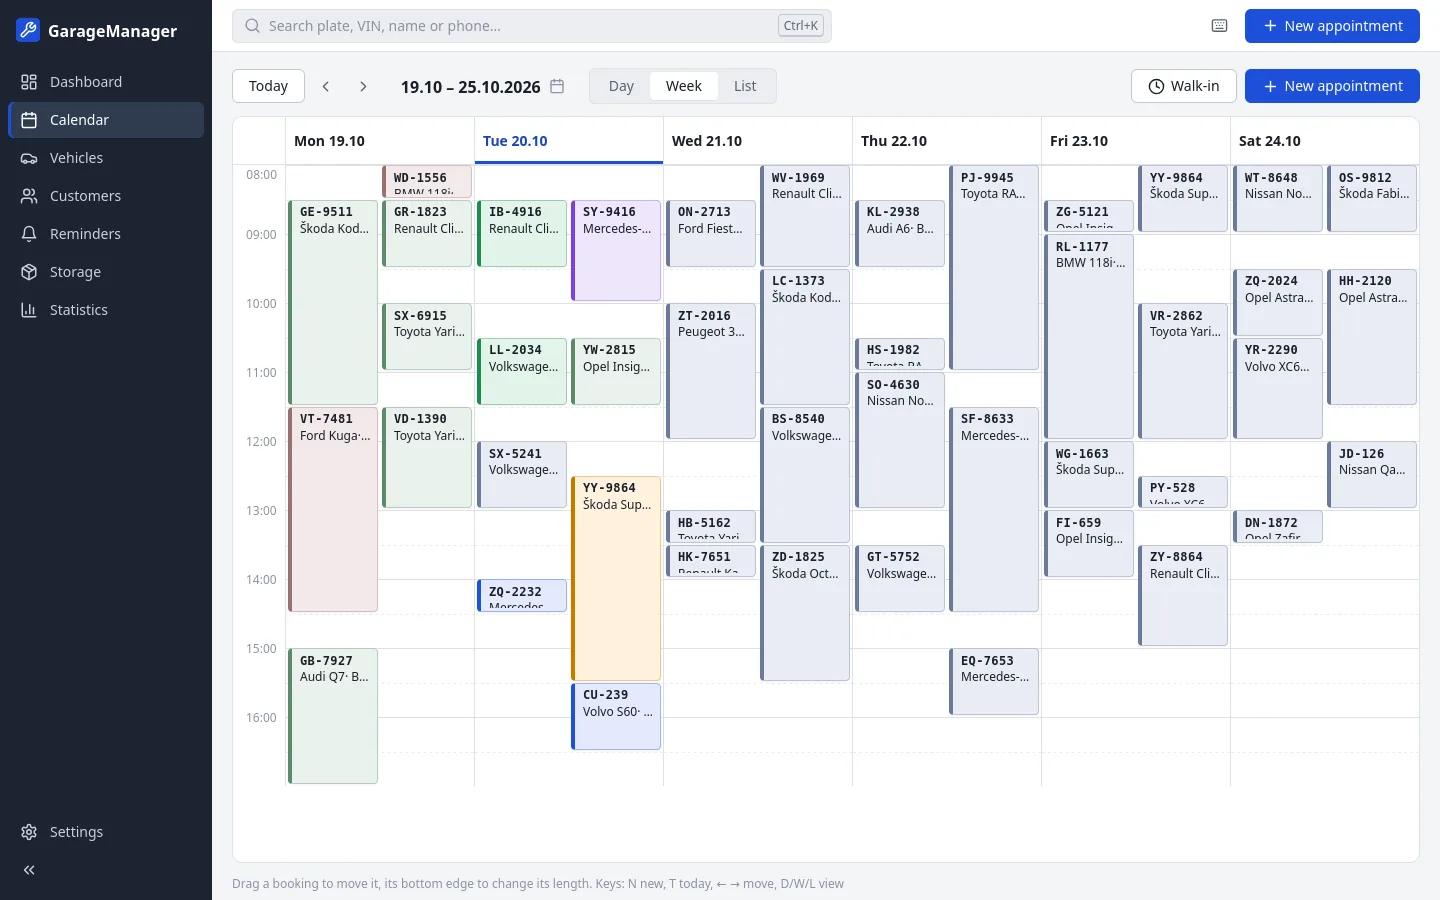
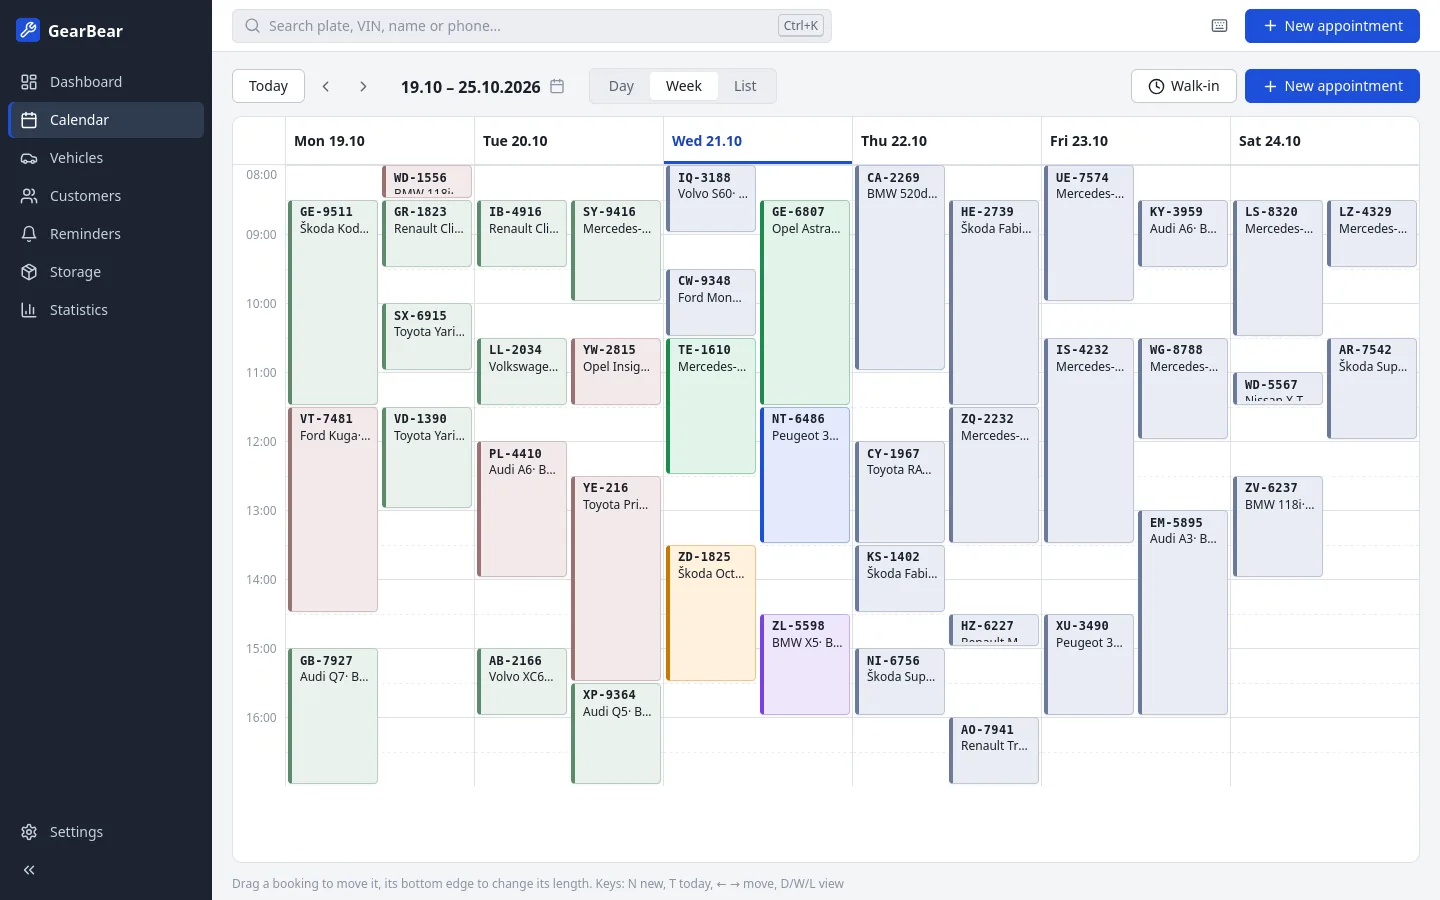
Rename to GearBear by ImpatientBeastStudios

diff --git a/index.html b/index.html
@@ -3,11 +3,12 @@
 <head>
 <meta charset="utf-8">
 <meta name="viewport" content="width=device-width, initial-scale=1">
-<title>GarageManager</title>
-<meta name="description" content="Free Windows app for car garages: appointments, vehicles, customers, job cards and service history. Works offline; your data stays on your PC.">
+<title>GearBear</title>
+<meta name="author" content="ImpatientBeastStudios">
+<meta name="description" content="GearBear: free Windows app for car garages: appointments, vehicles, customers, job cards and service history. Works offline; your data stays on your PC.">
 <link rel="icon" type="image/png" href="img/favicon-32.png">
 <link rel="apple-touch-icon" href="img/icon-192.png">
-<meta property="og:title" content="GarageManager">
+<meta property="og:title" content="GearBear">
 <meta property="og:description" content="Free Windows app for car garages: appointments, job cards and service history.">
 <meta property="og:image" content="https://teddybear1998.github.io/garagemanager/img/dashboard-en.webp">
 <script>
@@ -131,6 +132,7 @@
   .cta .alt a { color: #fff; }
   .facts { display: flex; flex-wrap: wrap; gap: 8px 22px; margin-top: 18px; font-size: .9rem; color: var(--text-on-dark); }
   .facts span::before { content: "✓"; margin-right: 6px; color: #7ee2a8; font-weight: 700; }
+  .formerly { margin-top: 14px; font-size: .88rem; color: var(--text-on-dark); opacity: .8; }
   .shot { position: relative; margin: 48px 0 calc(-1 * var(--overhang)); border-radius: var(--radius-lg); overflow: hidden; box-shadow: 0 24px 60px rgba(0, 0, 0, .35); border: 1px solid rgba(255, 255, 255, .08); }
 
   /* Features */
@@ -189,7 +191,7 @@
 
 <header>
   <div class="wrap bar">
-    <a class="brand" href="#top"><img src="img/icon-192.png" alt="">GarageManager</a>
+    <a class="brand" href="#top"><img src="img/icon-192.png" alt="">GearBear</a>
     <nav class="links">
       <a href="#features"><span lang="en">Features</span><span lang="lv">Iespējas</span></a>
       <a href="#screens"><span lang="en">Screenshots</span><span lang="lv">Ekrāni</span></a>
@@ -216,7 +218,7 @@
         <span lang="lv">Bezmaksas Windows programma autoservisiem. Pierakstiet darbus kalendārā, aizpildiet darba kartes, izdrukājiet tās klientam un atrodiet jebkuras automašīnas vēsturi sekundes laikā. Darbojas bez interneta, un dati paliek jūsu datorā.</span>
       </p>
       <div class="cta">
-        <a class="btn primary big" href="https://github.com/TeddyBear1998/garagemanager/releases/latest/download/GarageManager-Setup.exe">
+        <a class="btn primary big" href="https://github.com/TeddyBear1998/garagemanager/releases/latest/download/GearBear-Setup.exe">
           <svg viewBox="0 0 24 24" fill="none" stroke="currentColor" stroke-width="2" stroke-linecap="round" stroke-linejoin="round" aria-hidden="true"><path d="M21 15v4a2 2 0 0 1-2 2H5a2 2 0 0 1-2-2v-4"/><path d="m7 10 5 5 5-5"/><path d="M12 15V3"/></svg>
           <span lang="en">Download for Windows</span><span lang="lv">Lejupielādēt Windows</span>
         </a>
@@ -231,9 +233,10 @@
         <span lang="en">Works offline</span><span lang="lv">Darbojas bez interneta</span>
         <span lang="en">English and Latvian</span><span lang="lv">Latviešu un angļu valodā</span>
       </div>
+      <p class="formerly"><span lang="en">Formerly called GarageManager. Already using it? Click Download in the app's “new version” bar and run the installer: it replaces GarageManager with GearBear and keeps all your data.</span><span lang="lv">Agrāk saucās GarageManager. Jau lietojat? Spiediet Lejupielādēt programmas joslā “jauna versija” un palaidiet instalētāju: tas aizstās GarageManager ar GearBear un saglabās visus datus.</span></p>
       <div class="shot">
-        <img lang="en" src="img/dashboard-en.webp" width="1440" height="900" alt="GarageManager dashboard: today's appointments with their status and cars due for service">
-        <img lang="lv" src="img/dashboard-lv.webp" width="1440" height="900" alt="GarageManager sākuma ekrāns: šodienas pieraksti ar statusiem un automašīnas, kurām drīz jāveic serviss">
+        <img lang="en" src="img/dashboard-en.webp" width="1440" height="900" alt="GearBear dashboard: today's appointments with their status and cars due for service">
+        <img lang="lv" src="img/dashboard-lv.webp" width="1440" height="900" alt="GearBear sākuma ekrāns: šodienas pieraksti ar statusiem un automašīnas, kurām drīz jāveic serviss">
       </div>
     </div>
   </section>
@@ -324,11 +327,11 @@
         <p><span lang="en">For Windows 10 and 11 (64-bit). The installer takes about a minute.</span><span lang="lv">Windows 10 un 11 (64 bitu). Uzstādīšana aizņem apmēram minūti.</span></p>
       </div>
       <div class="dl-row">
-        <a class="btn primary" href="https://github.com/TeddyBear1998/garagemanager/releases/latest/download/GarageManager-Setup.exe">
+        <a class="btn primary" href="https://github.com/TeddyBear1998/garagemanager/releases/latest/download/GearBear-Setup.exe">
           <svg viewBox="0 0 24 24" fill="none" stroke="currentColor" stroke-width="2" stroke-linecap="round" stroke-linejoin="round" aria-hidden="true"><path d="M21 15v4a2 2 0 0 1-2 2H5a2 2 0 0 1-2-2v-4"/><path d="m7 10 5 5 5-5"/><path d="M12 15V3"/></svg>
           <span lang="en">Installer (recommended)</span><span lang="lv">Instalētājs (ieteicams)</span>
         </a>
-        <a class="btn secondary" href="https://github.com/TeddyBear1998/garagemanager/releases/latest/download/GarageManager.exe">
+        <a class="btn secondary" href="https://github.com/TeddyBear1998/garagemanager/releases/latest/download/GearBear.exe">
           <span lang="en">Portable exe, no install</span><span lang="lv">Pārnēsājamais exe bez uzstādīšanas</span>
         </a>
       </div>
@@ -336,7 +339,7 @@
         <ol class="steps">
           <li>
             <h3><span lang="en">Download the installer</span><span lang="lv">Lejupielādējiet instalētāju</span></h3>
-            <p><span lang="en">Click the button above. The file is called <b>GarageManager-Setup.exe</b>.</span><span lang="lv">Spiediet pogu augstāk. Faila nosaukums ir <b>GarageManager-Setup.exe</b>.</span></p>
+            <p><span lang="en">Click the button above. The file is called <b>GearBear-Setup.exe</b>.</span><span lang="lv">Spiediet pogu augstāk. Faila nosaukums ir <b>GearBear-Setup.exe</b>.</span></p>
           </li>
           <li>
             <h3><span lang="en">Allow it to run</span><span lang="lv">Atļaujiet to palaist</span></h3>
@@ -355,7 +358,7 @@
         <div>
           <div class="side">
             <h3><span lang="en">Updates</span><span lang="lv">Atjauninājumi</span></h3>
-            <p><span lang="en">When a new version is out, a bar appears at the top of the app. Click <b>Download</b>, close GarageManager and run the new installer. All your data stays.</span><span lang="lv">Kad iznāk jauna versija, programmas augšā parādās josla. Spiediet <b>Lejupielādēt</b>, aizveriet GarageManager un palaidiet jauno instalētāju. Visi dati saglabājas.</span></p>
+            <p><span lang="en">When a new version is out, a bar appears at the top of the app. Click <b>Download</b>, close GearBear and run the new installer. All your data stays.</span><span lang="lv">Kad iznāk jauna versija, programmas augšā parādās josla. Spiediet <b>Lejupielādēt</b>, aizveriet GearBear un palaidiet jauno instalētāju. Visi dati saglabājas.</span></p>
           </div>
           <div class="side">
             <h3><span lang="en">Already have customers in Excel?</span><span lang="lv">Klienti jau ir Excel tabulā?</span></h3>
@@ -377,10 +380,10 @@
   <section id="donate" class="alt-bg donate">
     <div class="wrap">
       <svg class="heart" viewBox="0 0 24 24" fill="none" stroke="currentColor" stroke-width="2" stroke-linecap="round" stroke-linejoin="round" aria-hidden="true"><path d="M19 14c1.49-1.46 3-3.21 3-5.5A5.5 5.5 0 0 0 16.5 3c-1.76 0-3 .5-4.5 2-1.5-1.5-2.74-2-4.5-2A5.5 5.5 0 0 0 2 8.5c0 2.3 1.5 4.05 3 5.5l7 7Z"/></svg>
-      <h2><span lang="en">Support GarageManager</span><span lang="lv">Atbalstiet GarageManager</span></h2>
+      <h2><span lang="en">Support GearBear</span><span lang="lv">Atbalstiet GearBear</span></h2>
       <p>
-        <span lang="en">GarageManager is free, with no ads and no subscriptions. If it saves your garage time, a small donation helps keep it going: new features, fixes and updates.</span>
-        <span lang="lv">GarageManager ir bez maksas, bez reklāmām un abonementiem. Ja tā ietaupa jūsu servisam laiku, neliels ziedojums palīdz to attīstīt: jaunas iespējas, labojumi un atjauninājumi.</span>
+        <span lang="en">GearBear is free, with no ads and no subscriptions. If it saves your garage time, a small donation helps keep it going: new features, fixes and updates.</span>
+        <span lang="lv">GearBear ir bez maksas, bez reklāmām un abonementiem. Ja tā ietaupa jūsu servisam laiku, neliels ziedojums palīdz to attīstīt: jaunas iespējas, labojumi un atjauninājumi.</span>
       </p>
       <!-- The link comes from DONATE_URL in the script at the end. The
            app's Donate button opens this section. -->
@@ -403,11 +406,11 @@
       </details>
       <details>
         <summary><span lang="en">Where is my data, and does anything get sent anywhere?</span><span lang="lv">Kur glabājas mani dati, un vai kaut kas tiek kaut kur sūtīts?</span></summary>
-        <p><span lang="en">Everything is in one database file in <b>%APPDATA%\GarageManager</b> on your PC, plus the backups. Settings → About shows the exact folder. The only internet use is a check for new versions: the app reads one small file from this website. No data about you, your garage or your customers is sent, and you can switch the check off in Settings.</span><span lang="lv">Viss glabājas vienā datubāzes failā mapē <b>%APPDATA%\GarageManager</b> jūsu datorā, kopā ar rezerves kopijām. Precīzā mape redzama sadaļā Iestatījumi → Par programmu. Internets tiek izmantots tikai jaunu versiju pārbaudei: programma nolasa vienu mazu failu no šīs mājaslapas. Netiek sūtīti nekādi dati par jums, jūsu servisu vai klientiem, un pārbaudi var izslēgt iestatījumos.</span></p>
+        <p><span lang="en">Everything is in one database file in <b>%APPDATA%\GearBear</b> on your PC, plus the backups. Settings → About shows the exact folder. The only internet use is a check for new versions: the app reads one small file from this website. No data about you, your garage or your customers is sent, and you can switch the check off in Settings.</span><span lang="lv">Viss glabājas vienā datubāzes failā mapē <b>%APPDATA%\GearBear</b> jūsu datorā, kopā ar rezerves kopijām. Precīzā mape redzama sadaļā Iestatījumi → Par programmu. Internets tiek izmantots tikai jaunu versiju pārbaudei: programma nolasa vienu mazu failu no šīs mājaslapas. Netiek sūtīti nekādi dati par jums, jūsu servisu vai klientiem, un pārbaudi var izslēgt iestatījumos.</span></p>
       </details>
       <details>
         <summary><span lang="en">Can several PCs share the same data?</span><span lang="lv">Vai vairāki datori var lietot tos pašus datus?</span></summary>
-        <p><span lang="en">Not yet. GarageManager runs on one PC, usually at the front desk. To move to a new PC, make a backup on the old one and restore it on the new one.</span><span lang="lv">Pagaidām ne. GarageManager darbojas vienā datorā, parasti reģistratūrā. Lai pārietu uz jaunu datoru, izveidojiet rezerves kopiju vecajā un atjaunojiet to jaunajā.</span></p>
+        <p><span lang="en">Not yet. GearBear runs on one PC, usually at the front desk. To move to a new PC, make a backup on the old one and restore it on the new one.</span><span lang="lv">Pagaidām ne. GearBear darbojas vienā datorā, parasti reģistratūrā. Lai pārietu uz jaunu datoru, izveidojiet rezerves kopiju vecajā un atjaunojiet to jaunajā.</span></p>
       </details>
       <details>
         <summary><span lang="en">Does it work on Mac or Linux?</span><span lang="lv">Vai tā darbojas uz Mac vai Linux?</span></summary>
@@ -415,11 +418,11 @@
       </details>
       <details>
         <summary><span lang="en">What is the portable exe for?</span><span lang="lv">Kam paredzēts pārnēsājamais exe?</span></summary>
-        <p><span lang="en">It's the same app without an installer. Put it in a folder such as C:\GarageManager and run it. To keep the data in that folder too, for example on a USB stick, create an empty file named <b>portable</b> next to the exe before the first start.</span><span lang="lv">Tā ir tā pati programma bez instalētāja. Ielieciet to mapē, piemēram, C:\GarageManager, un palaidiet. Lai arī dati glabātos šajā mapē, piemēram, USB zibatmiņā, pirms pirmās palaišanas blakus exe failam izveidojiet tukšu failu ar nosaukumu <b>portable</b>.</span></p>
+        <p><span lang="en">It's the same app without an installer. Put it in a folder such as C:\GearBear and run it. To keep the data in that folder too, for example on a USB stick, create an empty file named <b>portable</b> next to the exe before the first start.</span><span lang="lv">Tā ir tā pati programma bez instalētāja. Ielieciet to mapē, piemēram, C:\GearBear, un palaidiet. Lai arī dati glabātos šajā mapē, piemēram, USB zibatmiņā, pirms pirmās palaišanas blakus exe failam izveidojiet tukšu failu ar nosaukumu <b>portable</b>.</span></p>
       </details>
       <details>
         <summary><span lang="en">How do I uninstall it?</span><span lang="lv">Kā to noņemt?</span></summary>
-        <p><span lang="en">Windows Settings → Apps → Installed apps → GarageManager → Uninstall. Your database and backups are kept in case you change your mind. Delete the %APPDATA%\GarageManager folder to remove them as well.</span><span lang="lv">Windows Iestatījumi → Programmas → Instalētās programmas → GarageManager → Atinstalēt. Datubāze un rezerves kopijas tiek saglabātas, ja pārdomājat. Lai izdzēstu arī tās, izdzēsiet mapi %APPDATA%\GarageManager.</span></p>
+        <p><span lang="en">Windows Settings → Apps → Installed apps → GearBear → Uninstall. Your database and backups are kept in case you change your mind. Delete the %APPDATA%\GearBear folder to remove them as well.</span><span lang="lv">Windows Iestatījumi → Programmas → Instalētās programmas → GearBear → Atinstalēt. Datubāze un rezerves kopijas tiek saglabātas, ja pārdomājat. Lai izdzēstu arī tās, izdzēsiet mapi %APPDATA%\GearBear.</span></p>
       </details>
     </div>
   </section>
@@ -427,7 +430,7 @@
 
 <footer>
   <div class="wrap">
-    <span>© 2026 GarageManager</span>
+    <span>© 2026 GearBear · <span lang="en">made by</span><span lang="lv">izstrādātājs</span> ImpatientBeastStudios</span>
     <span>
       <a href="https://github.com/TeddyBear1998/garagemanager/releases"><span lang="en">All versions and release notes</span><span lang="lv">Visas versijas un izmaiņas</span></a>
     </span>
@@ -440,7 +443,7 @@
   function setLang(lang) {
     document.documentElement.lang = lang
     buttons.forEach(function (b) { b.setAttribute('aria-pressed', String(b.dataset.lang === lang)) })
-    document.title = 'GarageManager'
+    document.title = 'GearBear'
     try { localStorage.setItem('lang', lang) } catch (e) {}
   }
   buttons.forEach(function (b) { b.addEventListener('click', function () { setLang(b.dataset.lang) }) })

diff --git a/README.md b/README.md
@@ -1,4 +1,6 @@
-# GarageManager
+# GearBear
+
+By ImpatientBeastStudios. Formerly called GarageManager; this repository keeps the old name so existing links keep working.
 
 Free Windows app for car garages: appointments, vehicles, customers, job cards and service history. Works offline; the data stays on your PC.
 
